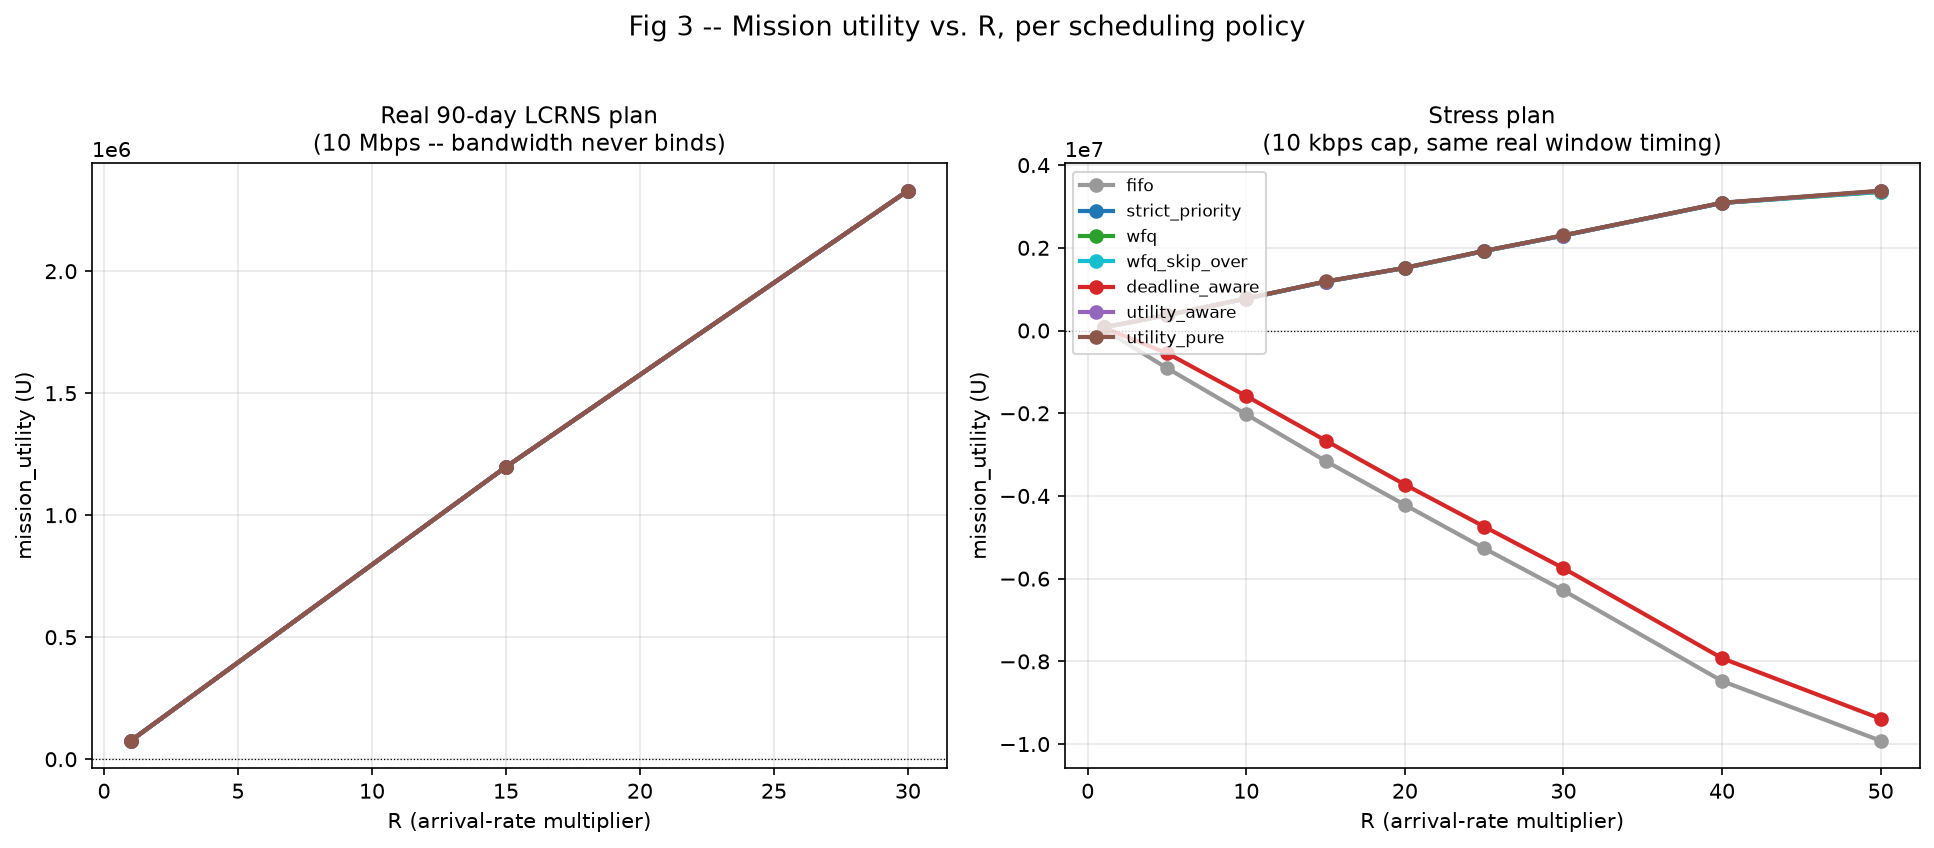
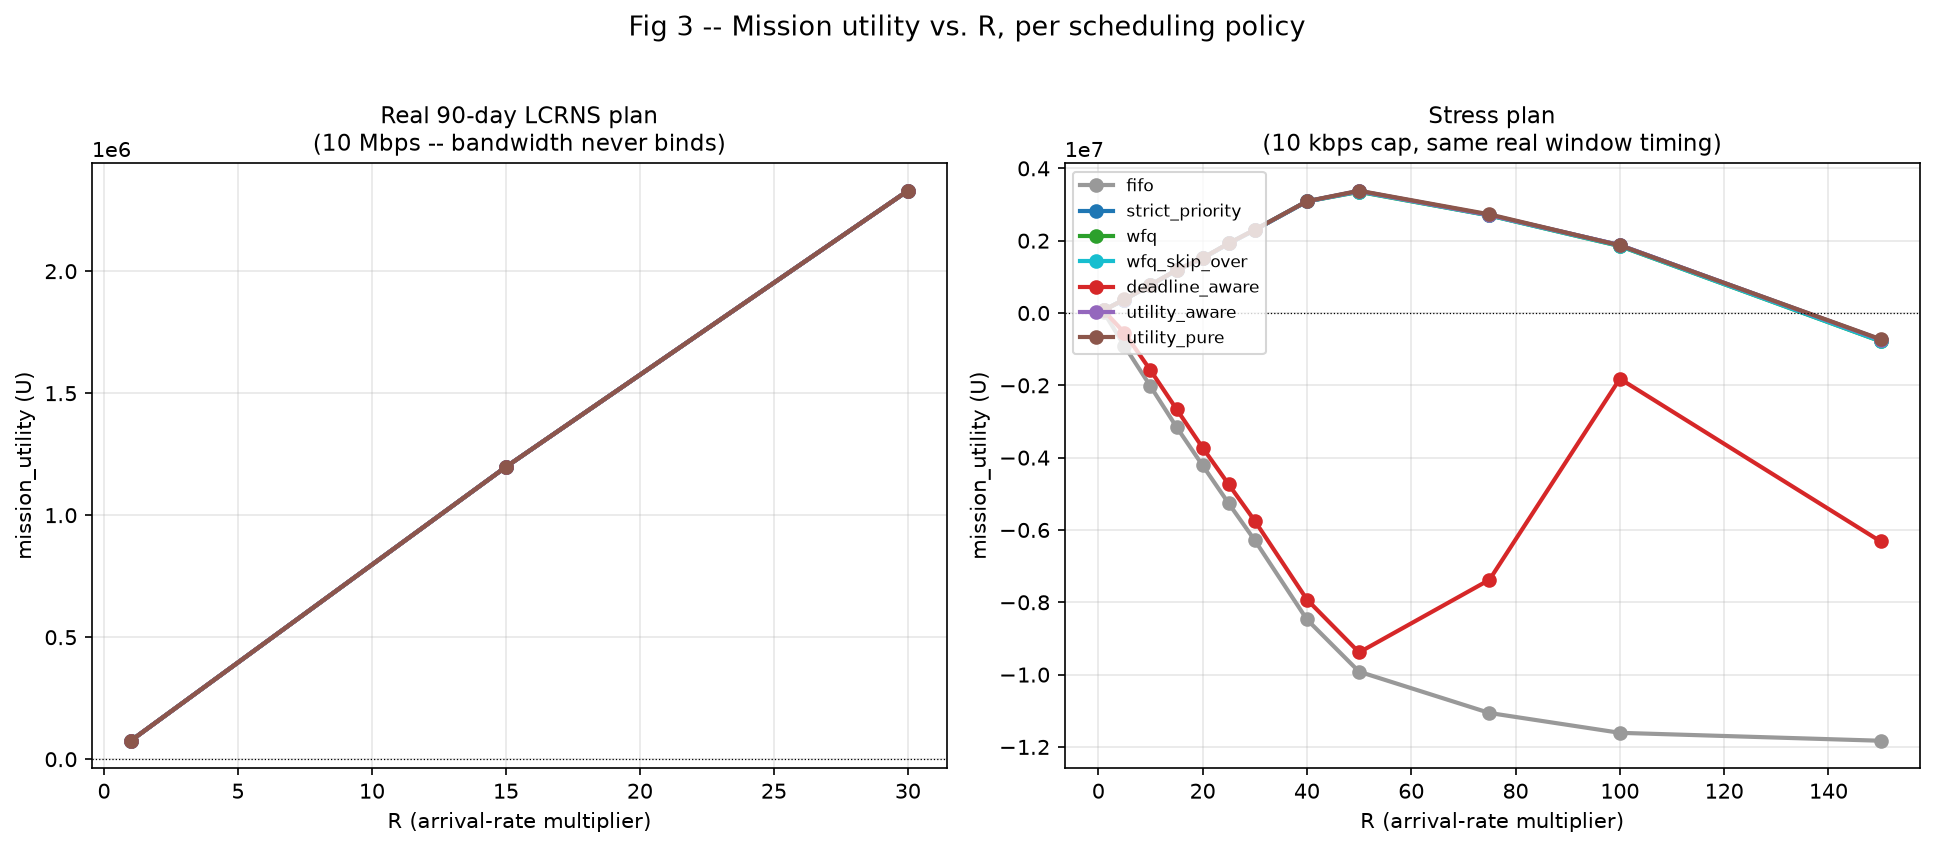
Extend Fig 3 stress sweep to R=150

diff --git a/extend_fig3_sweep.py b/extend_fig3_sweep.py
@@ -1,0 +1,24 @@
+import json, time
+from gateway.sweep_harness import sweep_R
+from gateway.scheduler import SchedulingPolicy
+
+CSV_PATH = "gateway/lcrns_relay_contact_plan_1sv.csv"
+NEW_R_VALUES = [75, 100, 150]  # extends past the R=50 compounding-overflow finding
+policies = [p.value for p in SchedulingPolicy]
+
+with open("results/fig3_results.json") as f:
+    output = json.load(f)
+
+t0 = time.time()
+stress = sweep_R(NEW_R_VALUES, CSV_PATH, stress=True, stress_rate_bps=10_000.0)
+for r, res in stress.items():
+    output["stress_plan"][r] = {p: res[p]["mission_utility"] for p in policies}
+print(f"new R values done in {time.time()-t0:.1f}s")
+
+output["meta"]["r_values_stress"] = sorted(
+    set(output["meta"]["r_values_stress"]) | set(NEW_R_VALUES)
+)
+
+with open("results/fig3_results.json", "w") as f:
+    json.dump(output, f, indent=2)
+print("merged and saved results/fig3_results.json")

diff --git a/results/fig3_table.md b/results/fig3_table.md
@@ -31,6 +31,9 @@ Raw mission_utility:
 | 30 | -6,285,836 | 2,298,247 | 2,297,548 | 2,297,681 | -5,747,482 | 2,298,247 | 2,302,341 |
 | 40 | -8,475,612 | 3,086,442 | 3,085,826 | 3,085,942 | -7,923,868 | 3,086,442 | 3,090,717 |
 | 50 | -9,919,242 | 3,372,085 | 3,350,174 | 3,357,223 | -9,386,236 | 3,371,874 | 3,381,302 |
+| 75 | -11,061,065 | 2,708,375 | 2,697,109 | 2,698,483 | -7,377,084 | 2,708,375 | 2,727,197 |
+| 100 | -11,609,629 | 1,876,837 | 1,850,109 | 1,854,215 | -1,818,712 | 1,876,837 | 1,871,176 |
+| 150 | -11,828,728 | -738,399 | -783,021 | -781,263 | -6,318,059 | -738,399 | -725,294 |
 
 Ranked (#1 = best) with delta from best:
 
@@ -45,3 +48,6 @@ Ranked (#1 = best) with delta from best:
 | 30 | #7 (-8,588,177) | #2 (-4,094) | #5 (-4,793) | #4 (-4,660) | #6 (-8,049,823) | #3 (-4,094) | #1 (+0) |
 | 40 | #7 (-11,566,329) | #2 (-4,275) | #5 (-4,891) | #4 (-4,775) | #6 (-11,014,585) | #3 (-4,275) | #1 (+0) |
 | 50 | #7 (-13,300,544) | #2 (-9,217) | #5 (-31,128) | #4 (-24,079) | #6 (-12,767,538) | #3 (-9,428) | #1 (+0) |
+| 75 | #7 (-13,788,262) | #2 (-18,822) | #5 (-30,088) | #4 (-28,714) | #6 (-10,104,281) | #3 (-18,822) | #1 (+0) |
+| 100 | #7 (-13,486,466) | #1 (+0) | #5 (-26,728) | #4 (-22,622) | #6 (-3,695,549) | #2 (+0) | #3 (-5,661) |
+| 150 | #7 (-11,103,434) | #2 (-13,105) | #5 (-57,727) | #4 (-55,969) | #6 (-5,592,765) | #3 (-13,105) | #1 (+0) |